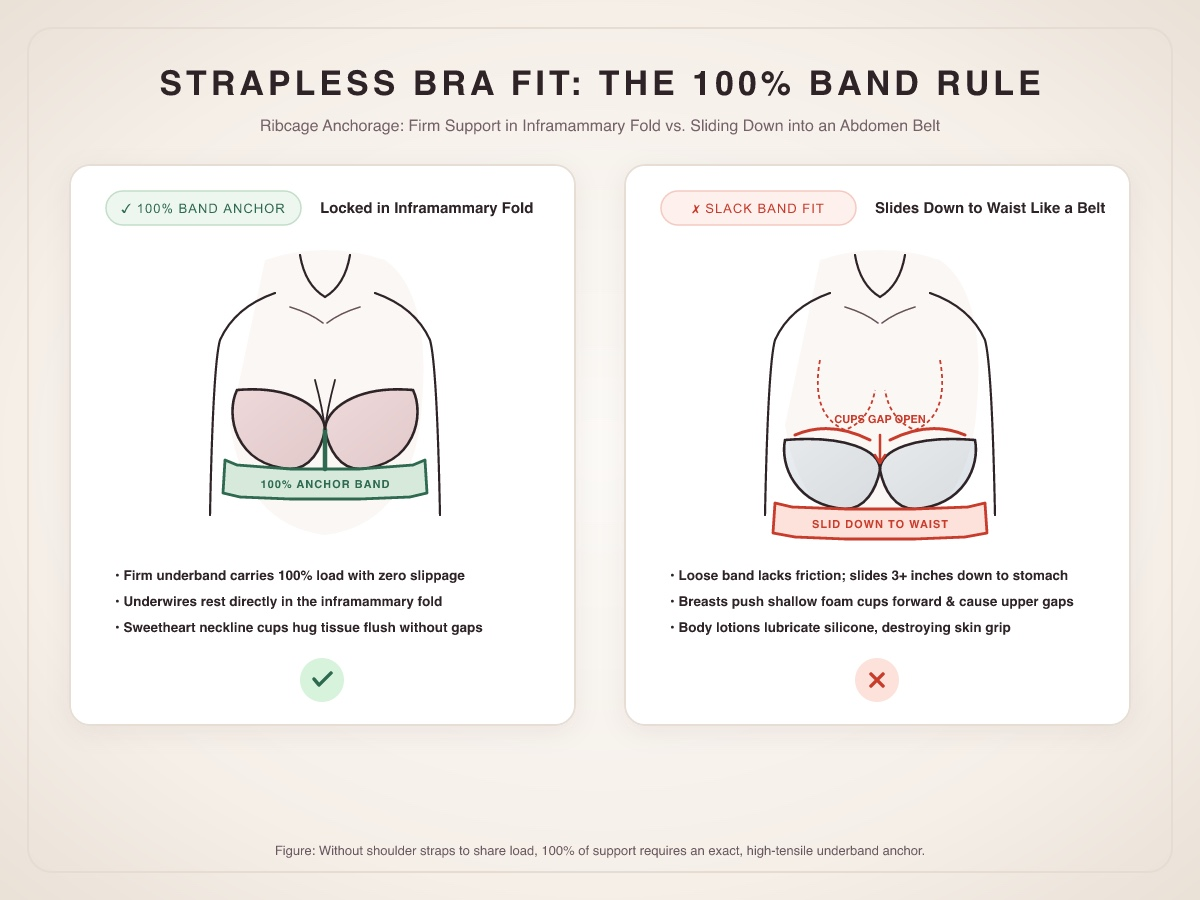
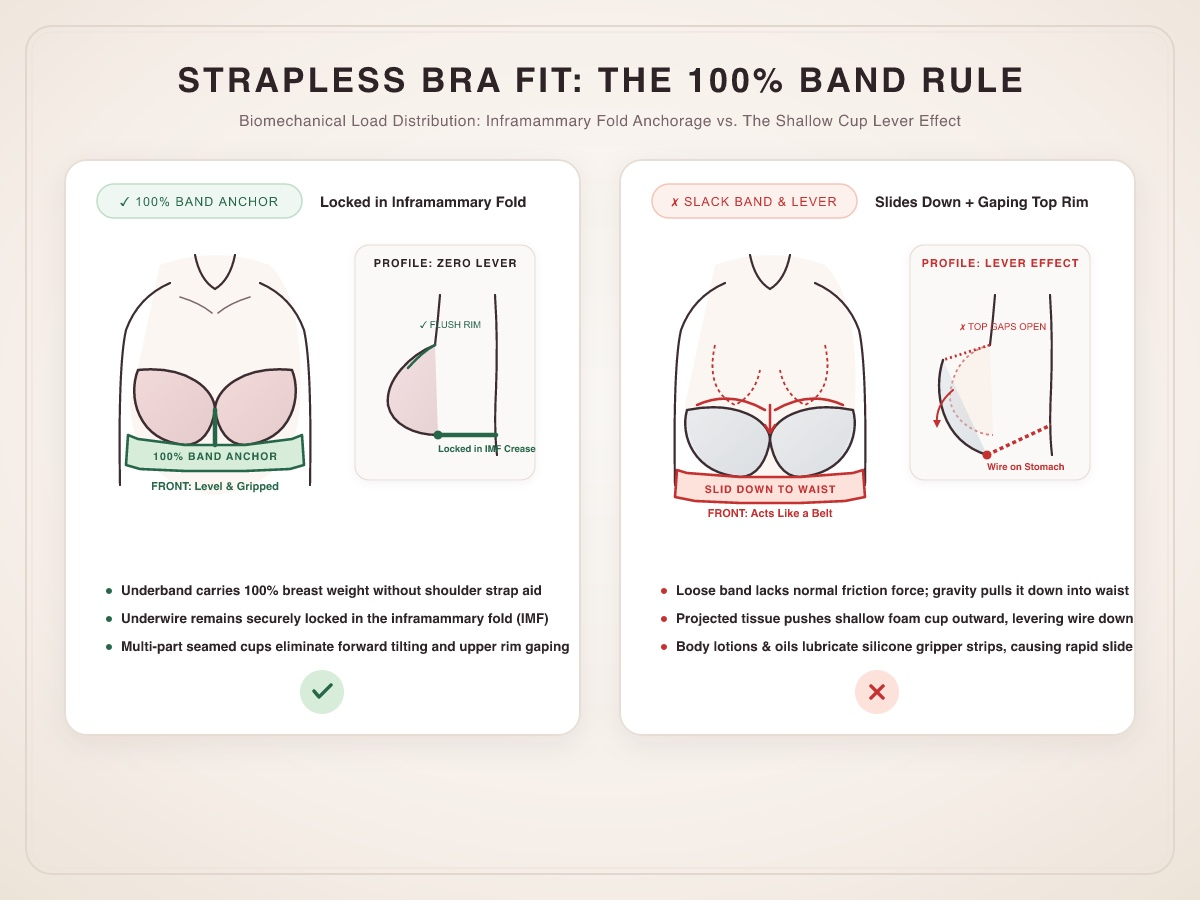
feat(editorial): elevate strapless fit guide with dual-perspective graphic and rich UI callouts

diff --git a/src/styles/global.css b/src/styles/global.css
@@ -1,5 +1,5 @@
 @import "tailwindcss";
-@source "../**/*.{astro,html,js,ts,jsx,tsx}";
+@source "../**/*.{astro,html,js,ts,jsx,tsx,md}";
 
 @custom-variant dark (&:where(.dark, .dark *));
 

diff --git a/src/content/blog/why-does-my-strapless-bra-keep-slipping-down.md b/src/content/blog/why-does-my-strapless-bra-keep-slipping-down.md
@@ -19,8 +19,6 @@ faqs:
     answer: "Yes. Fuller-bust strapless bras require specific architectural elements: wide 4-to-5 hook powernet bands, vertical side boning to prevent rolling, multi-part seamed cups for forward projection, and medical-grade silicone grip tape along the band perimeter."
 ---
 
-# Why Does My Strapless Bra Keep Slipping Down? (The 100% Band Rule)
-
 Few wardrobe malfunctions are as universally dreaded, physically uncomfortable, or socially awkward as a slipping strapless bra. You put it on for a wedding, a formal dinner, or a summer evening out, and within forty-five minutes, the inevitable migration begins. You find yourself discreetly tugging it upward through your armpits, crossing your arms defensively across your chest to pin it in place, or retreating to the restroom every hour just to yank the band back onto your ribcage. By the end of the night, the bra has surrendered entirely to gravity, sliding three inches down your torso to sit around your upper abdomen like an awkward, suffocating belt.
 
 If this scenario sounds painfully familiar, you are not alone. Searches for **"strapless bra that stays up"** have surged by over **900% year-over-year**, reflecting a massive collective frustration with intimate apparel engineering. 
@@ -39,12 +37,56 @@ To understand why a strapless bra fails, we must first look at how standard ling
 
 Because shoulder straps provide that crucial 20% upward tension, they act as an invisible safety net. If your everyday bra band is slightly too loose (for instance, wearing a 36 band on a 32-inch ribcage), the shoulder straps compensate by pulling harder. You might end up with shoulder grooves or neck ache, but the bra generally stays upright on your chest.
 
-```
-STANDARD BRA:               STRAPLESS BRA:
-[ Straps: 15-20% Support ]   [ Straps: 0% (ELIMINATED) ]
-            ▼                            ▼
-[ Underband: 80-85% Load ]   [ Underband: MUST CARRY 100% OF LOAD ]
-```
+<div class="my-8 grid sm:grid-cols-2 gap-4 not-prose">
+  <div class="bg-surface border border-hairline rounded-2xl p-5 shadow-xs">
+    <div class="flex items-center justify-between mb-3">
+      <span class="text-xs font-bold uppercase tracking-wider text-mute">Standard Everyday Bra</span>
+      <span class="text-xs font-bold px-2 py-0.5 rounded-full bg-slate-100 dark:bg-slate-800 text-slate-700 dark:text-slate-300">80/20 Mechanical Balance</span>
+    </div>
+    <div class="space-y-3">
+      <div class="p-3 rounded-xl bg-canvas-soft border border-hairline/60">
+        <div class="text-xs text-mute mb-1 font-medium">Vertical Shoulder Straps</div>
+        <div class="font-bold text-ink text-sm flex items-center justify-between">
+          <span>Stabilizes Top of Cups</span>
+          <span class="text-primary font-bold">15% – 20% Load</span>
+        </div>
+      </div>
+      <div class="p-3 rounded-xl bg-canvas-soft border border-hairline/60">
+        <div class="text-xs text-mute mb-1 font-medium">Horizontal Underband</div>
+        <div class="font-bold text-ink text-sm flex items-center justify-between">
+          <span>Anchors to Ribcage</span>
+          <span class="text-primary font-bold">80% – 85% Load</span>
+        </div>
+      </div>
+    </div>
+    <p class="text-xs text-mute mt-3 italic">Straps act as a hidden safety net, compensating for a loose band.</p>
+  </div>
+
+  <div class="bg-surface border-2 border-primary/30 rounded-2xl p-5 shadow-xs relative overflow-hidden">
+    <div class="absolute top-0 right-0 bg-primary text-white text-[10px] font-extrabold uppercase px-3 py-1 rounded-bl-lg tracking-wider">Zero Safety Net</div>
+    <div class="flex items-center justify-between mb-3">
+      <span class="text-xs font-bold uppercase tracking-wider text-primary">Strapless Bra</span>
+      <span class="text-xs font-bold px-2 py-0.5 rounded-full bg-primary/10 text-primary">100% Band Rule</span>
+    </div>
+    <div class="space-y-3">
+      <div class="p-3 rounded-xl bg-canvas-soft border border-hairline/60 opacity-60">
+        <div class="text-xs text-mute mb-1 font-medium">Shoulder Straps</div>
+        <div class="font-bold text-ink text-sm flex items-center justify-between">
+          <span class="line-through">Eliminated</span>
+          <span class="text-rose-600 font-bold">0% Support</span>
+        </div>
+      </div>
+      <div class="p-3 rounded-xl bg-green-50 dark:bg-green-950/30 border border-green-200 dark:border-green-800">
+        <div class="text-xs text-green-700 dark:text-green-300 mb-1 font-medium">Horizontal Underband</div>
+        <div class="font-bold text-green-900 dark:text-green-100 text-sm flex items-center justify-between">
+          <span>Dynamic Static Friction</span>
+          <span class="text-green-700 dark:text-green-300 font-extrabold">100% Full Load</span>
+        </div>
+      </div>
+    </div>
+    <p class="text-xs text-ink/80 mt-3 font-medium">Without straps, any band slack causes immediate gravitational slide.</p>
+  </div>
+</div>
 
 When you detach the shoulder straps, **the safety net disappears entirely**. 
 
@@ -87,15 +129,63 @@ If you currently wear bras fitted at standard department stores, your band is al
 
 When sizing down in the band for extra grip, you cannot simply reduce the number—you must simultaneously increase the cup letter by one step to preserve the exact same physical volume for your breast tissue. 
 
-| Everyday Size | Recommended Strapless Sister Size | Why It Works |
-| :---: | :---: | :--- |
-| **32C** | **30D** | Tightens ribcage circumference by 2 inches; maintains 390cc cup volume |
-| **34B** | **32C** | Eliminates back ride-up; provides firm friction against 31-32" ribs |
-| **34C** | **32D** | Locks the cradle under the inframammary fold; prevents sagging |
-| **34D** | **32DD** | Critical threshold for medium busts; shifts 100% weight to ribcage |
-| **36C** | **34D** | Eliminates 2 inches of excess elastic slack that causes sliding |
-| **36D** | **34DD (or 34E)** | Provides firm foundation for ~710cc breast mass without strap assistance |
-| **38DD** | **36E (36DDD)** | Stabilizes fuller busts; prevents band from flipping or rolling |
+<div class="my-8 overflow-hidden rounded-2xl border border-hairline shadow-xs not-prose bg-surface">
+  <div class="p-4 bg-canvas-soft border-b border-hairline flex flex-col sm:flex-row sm:items-center justify-between gap-2">
+    <div>
+      <h4 class="font-bold text-ink text-sm">The Sister-Size Down Reference Guide</h4>
+      <p class="text-xs text-mute">Maintain exact cup volume (in cc) while dropping band circumference</p>
+    </div>
+    <span class="text-xs font-bold px-2.5 py-1 rounded-full bg-primary/10 text-primary self-start sm:self-auto">Volume Preserved</span>
+  </div>
+  <div class="overflow-x-auto">
+    <table class="w-full text-left text-sm">
+      <thead class="bg-canvas-soft/50 text-xs uppercase tracking-wider text-mute border-b border-hairline">
+        <tr>
+          <th class="py-3 px-4 font-bold text-ink">Everyday Size</th>
+          <th class="py-3 px-4 font-bold text-primary">Target Strapless Sister Size</th>
+          <th class="py-3 px-4 font-bold text-ink">Biomechanical Fit Reason</th>
+        </tr>
+      </thead>
+      <tbody class="divide-y divide-hairline text-body text-xs sm:text-sm">
+        <tr class="hover:bg-canvas-soft/30 transition-colors">
+          <td class="py-3 px-4 font-bold text-ink">32C</td>
+          <td class="py-3 px-4 font-bold text-primary">30D</td>
+          <td class="py-3 px-4">Tightens ribcage circumference by 2 inches; preserves 390cc cup volume.</td>
+        </tr>
+        <tr class="hover:bg-canvas-soft/30 transition-colors">
+          <td class="py-3 px-4 font-bold text-ink">34B</td>
+          <td class="py-3 px-4 font-bold text-primary">32C</td>
+          <td class="py-3 px-4">Eliminates back ride-up; provides firm friction against 31-32" ribs.</td>
+        </tr>
+        <tr class="hover:bg-canvas-soft/30 transition-colors">
+          <td class="py-3 px-4 font-bold text-ink">34C</td>
+          <td class="py-3 px-4 font-bold text-primary">32D</td>
+          <td class="py-3 px-4">Locks the cradle under the inframammary fold; prevents downward sagging.</td>
+        </tr>
+        <tr class="hover:bg-canvas-soft/30 transition-colors">
+          <td class="py-3 px-4 font-bold text-ink">34D</td>
+          <td class="py-3 px-4 font-bold text-primary">32DD</td>
+          <td class="py-3 px-4">Critical threshold for medium busts; shifts 100% load directly to ribcage.</td>
+        </tr>
+        <tr class="hover:bg-canvas-soft/30 transition-colors">
+          <td class="py-3 px-4 font-bold text-ink">36C</td>
+          <td class="py-3 px-4 font-bold text-primary">34D</td>
+          <td class="py-3 px-4">Eliminates 2 inches of excess elastic slack that causes sliding.</td>
+        </tr>
+        <tr class="hover:bg-canvas-soft/30 transition-colors">
+          <td class="py-3 px-4 font-bold text-ink">36D</td>
+          <td class="py-3 px-4 font-bold text-primary">34DD (or 34E)</td>
+          <td class="py-3 px-4">Provides firm foundation for ~710cc breast mass without strap assistance.</td>
+        </tr>
+        <tr class="hover:bg-canvas-soft/30 transition-colors">
+          <td class="py-3 px-4 font-bold text-ink">38DD</td>
+          <td class="py-3 px-4 font-bold text-primary">36E (36DDD)</td>
+          <td class="py-3 px-4">Stabilizes fuller busts; prevents band from flipping or rolling under pressure.</td>
+        </tr>
+      </tbody>
+    </table>
+  </div>
+</div>
 
 *Tip: Need to find your exact equivalent? Check our comprehensive [Sister Size Calculator](/sister-size-calculator/) to maintain precise cup volume across any band step-down.*
 
@@ -107,13 +197,55 @@ When trying on a strapless bra, many women immediately complain: *"This smaller 
 
 Before assuming the band is too small, you must perform a crucial fitting diagnostic: the **Upside-Down and Backwards Test**.
 
-```
-STEP 1: Unhook the strapless bra.
-STEP 2: Turn it upside down so the cups point toward the floor.
-STEP 3: Place the clasp at your sternum and fasten it on the loosest hook.
-STEP 4: Spin the band so the cups hang down your back like a mini-cape.
-STEP 5: Assess how the band feels around your ribcage.
-```
+<div class="my-8 bg-surface border border-hairline rounded-2xl p-6 shadow-xs not-prose">
+  <div class="flex items-center gap-3 mb-5 pb-4 border-b border-hairline">
+    <div class="w-10 h-10 rounded-xl bg-primary/10 text-primary flex items-center justify-center font-bold shrink-0">
+      <svg xmlns="http://www.w3.org/2000/svg" width="20" height="20" viewBox="0 0 24 24" fill="none" stroke="currentColor" stroke-width="2" stroke-linecap="round" stroke-linejoin="round"><path d="m9 18 6-6-6-6"/></svg>
+    </div>
+    <div>
+      <h3 class="font-bold text-ink text-lg leading-tight">The "Upside-Down & Backwards" Diagnostic Protocol</h3>
+      <p class="text-xs text-mute">Isolate band tension completely from cup volume interference in 5 steps</p>
+    </div>
+  </div>
+
+  <div class="grid gap-3 sm:grid-cols-5">
+    <div class="p-4 rounded-xl bg-canvas-soft border border-hairline/80 flex flex-col justify-between">
+      <div>
+        <span class="w-6 h-6 rounded-full bg-primary text-white text-xs font-bold inline-flex items-center justify-center mb-2">1</span>
+        <h4 class="font-bold text-ink text-xs uppercase tracking-wider mb-1">Unhook</h4>
+        <p class="text-xs text-body leading-relaxed">Open the band hooks completely before putting on.</p>
+      </div>
+    </div>
+    <div class="p-4 rounded-xl bg-canvas-soft border border-hairline/80 flex flex-col justify-between">
+      <div>
+        <span class="w-6 h-6 rounded-full bg-primary text-white text-xs font-bold inline-flex items-center justify-center mb-2">2</span>
+        <h4 class="font-bold text-ink text-xs uppercase tracking-wider mb-1">Invert</h4>
+        <p class="text-xs text-body leading-relaxed">Turn upside down so cups point toward the floor.</p>
+      </div>
+    </div>
+    <div class="p-4 rounded-xl bg-canvas-soft border border-hairline/80 flex flex-col justify-between">
+      <div>
+        <span class="w-6 h-6 rounded-full bg-primary text-white text-xs font-bold inline-flex items-center justify-center mb-2">3</span>
+        <h4 class="font-bold text-ink text-xs uppercase tracking-wider mb-1">Fasten Front</h4>
+        <p class="text-xs text-body leading-relaxed">Fasten at sternum on the loosest outer hook.</p>
+      </div>
+    </div>
+    <div class="p-4 rounded-xl bg-canvas-soft border border-hairline/80 flex flex-col justify-between">
+      <div>
+        <span class="w-6 h-6 rounded-full bg-primary text-white text-xs font-bold inline-flex items-center justify-center mb-2">4</span>
+        <h4 class="font-bold text-ink text-xs uppercase tracking-wider mb-1">Spin to Back</h4>
+        <p class="text-xs text-body leading-relaxed">Cups hang down your back like an inverted cape.</p>
+      </div>
+    </div>
+    <div class="p-4 rounded-xl bg-canvas-soft border border-hairline/80 flex flex-col justify-between">
+      <div>
+        <span class="w-6 h-6 rounded-full bg-primary text-white text-xs font-bold inline-flex items-center justify-center mb-2">5</span>
+        <h4 class="font-bold text-ink text-xs uppercase tracking-wider mb-1">Assess Grip</h4>
+        <p class="text-xs text-body leading-relaxed">Band should grip firmly without slipping or spinning.</p>
+      </div>
+    </div>
+  </div>
+</div>
 
 ### Why This Test Is Revolutionary
 When you try on a bra normally, two things happen simultaneously: the band wraps your ribs, and the cups enclose your breasts. **If the cups are too small or too shallow, your breast tissue cannot fit inside them.** The cups are pushed away from your chest wall, which pulls the band tight like a bowstring. 
@@ -133,16 +265,33 @@ A massive point of confusion for women searching for a **"strapless bra that sta
 
 This paradox is caused by **The Shallow Cup Trap**:
 
-```
-THE SHALLOW CUP TRAP:
-[ Natural Projected Breast Tissue ] ──► Pushes aggressively against flat, stiff foam
-                                            │
-                                            ▼
-[ Bra Tilted Forward & Downward ]   ◄── Bottom underwire slides down into stomach
-                                            │
-                                            ▼
-[ Empty Top Gap Appears ]           ◄── Top rim pulls away from chest wall
-```
+<div class="my-8 bg-rose-50/60 dark:bg-rose-950/20 border border-rose-200 dark:border-rose-900 rounded-2xl p-6 not-prose">
+  <div class="flex items-start gap-4">
+    <div class="w-10 h-10 rounded-xl bg-rose-100 dark:bg-rose-900/50 text-rose-700 dark:text-rose-300 flex items-center justify-center shrink-0">
+      <svg xmlns="http://www.w3.org/2000/svg" width="22" height="22" viewBox="0 0 24 24" fill="none" stroke="currentColor" stroke-width="2" stroke-linecap="round" stroke-linejoin="round"><circle cx="12" cy="12" r="10"/><line x1="12" y1="8" x2="12" y2="12"/><line x1="12" y1="16" x2="12.01" y2="16"/></svg>
+    </div>
+    <div class="space-y-3 flex-1">
+      <h3 class="font-bold text-ink text-lg leading-tight">Biomechanical Breakdown: The Shallow Cup Lever Effect</h3>
+      <p class="text-xs sm:text-sm text-body leading-relaxed">
+        Why a strapless bra can feel both <strong>too small</strong> (sliding down) and <strong>too big</strong> (gaping open at the top rim) simultaneously:
+      </p>
+      <div class="grid sm:grid-cols-3 gap-3 pt-2">
+        <div class="bg-surface p-3.5 rounded-xl border border-rose-200/60 dark:border-rose-800/40 shadow-2xs">
+          <div class="text-[11px] font-bold uppercase tracking-wider text-rose-700 dark:text-rose-400 mb-1">Stage 1: Shape Clash</div>
+          <p class="text-xs text-body">Natural projected tissue hits rigid, shallow foam and cannot settle into the wire crease.</p>
+        </div>
+        <div class="bg-surface p-3.5 rounded-xl border border-rose-200/60 dark:border-rose-800/40 shadow-2xs">
+          <div class="text-[11px] font-bold uppercase tracking-wider text-rose-700 dark:text-rose-400 mb-1">Stage 2: Downward Lever</div>
+          <p class="text-xs text-body">Apex acts as a fulcrum. Outward breast pressure levers the underwire 2–3 inches down into your stomach.</p>
+        </div>
+        <div class="bg-surface p-3.5 rounded-xl border border-rose-200/60 dark:border-rose-800/40 shadow-2xs">
+          <div class="text-[11px] font-bold uppercase tracking-wider text-rose-700 dark:text-rose-400 mb-1">Stage 3: Upper Rim Gaping</div>
+          <p class="text-xs text-body">Because the bra tilts forward on the torso, the top rim pulls away from the pectorals, creating hollow gaps.</p>
+        </div>
+      </div>
+    </div>
+  </div>
+</div>
 
 1. **Mass-Market Foam Cups Are Flat:** Approximately 90% of commercial strapless bras are constructed with single-piece, heat-moulded stiff foam. These cups are wide and shallow.
 2. **Projected Breast Anatomy:** Natural breasts—particularly pendulous, post-nursing, or [sagging breasts](/blog/bra-size-calculator-for-sagging-breasts/)—require depth at the base of the cup near the underwire.
@@ -158,6 +307,16 @@ THE SHALLOW CUP TRAP:
 Nearly all modern strapless bras feature thin strips or waves of medical-grade silicone (often called "gripper tape") lined along the top edge of the cups and inside the bottom underband. 
 
 In theory, silicone creates high coefficient friction against dry epidermis, mechanically sticking the garment to your torso. In practice, improper skin preparation is one of the leading causes of strapless failure:
+
+<div class="my-6 p-5 rounded-2xl bg-amber-50/70 dark:bg-amber-950/30 border border-amber-200 dark:border-amber-800/60 not-prose flex items-start gap-3.5">
+  <span class="text-2xl leading-none">⚠</span>
+  <div>
+    <h4 class="font-bold text-amber-950 dark:text-amber-200 text-sm mb-1">The 4-Hour Moisturizer Rule</h4>
+    <p class="text-xs sm:text-sm text-amber-900/90 dark:text-amber-300/90 leading-relaxed">
+      Never apply body lotions, dry body oils, bronzers, or shower moisturizers within 4 hours of wearing a strapless bra. Lipids bond instantly to silicone gripper strips, creating an oily lubricant that eliminates 95% of normal skin friction. Cleanse ribs with rubbing alcohol or micellar water before dressing.
+    </p>
+  </div>
+</div>
 
 ### 1. The Moisturizer Barrier
 If you apply body lotion, shimmering body oil, rich shower moisturizers, or perfume to your decolletage or ribcage within four hours of wearing a strapless bra, **you destroy the silicone's grip**. The oils coat the silicone molecules, transforming the non-slip barrier into a slick, lubricated slip-and-slide. The bra will slide down within minutes of walking.
@@ -176,17 +335,50 @@ When silicone is pressed tightly against the skin during hot summer events or ac
 
 If you have a fuller bust (D, DD, E, F, G, or H+ cups), you cannot rely on an ordinary fashion strapless bra with a 2-hook clasp. Supporting heavier breast tissue without shoulder straps requires serious garment engineering:
 
-```
-┌────────────────────────────────────────────────────────────────────────┐
-│             ANATOMY OF A HIGH-PERFORMANCE STRAPLESS BRA                │
-├────────────────────────────────────────────────────────────────────────┤
-│ 1. TALL CENTER GORE:        Tacks flat against sternum to isolate mass │
-│ 2. REINFORCED SIDE BONING:  Vertical stays prevent band from rolling   │
-│ 3. WIDE POWERNET WINGS:     4 to 5 hooks distribute thoracic pressure  │
-│ 4. SWEETHEART BALCONETTE:   Curved cup hugs upper tissue without gap   │
-│ 5. ARCHED CENTER UNDERBAND: Relieves pressure on stomach & diaphragm   │
-└────────────────────────────────────────────────────────────────────────┘
-```
+<div class="my-8 grid sm:grid-cols-2 gap-3.5 not-prose">
+  <div class="bg-surface border border-hairline rounded-2xl p-4 shadow-2xs flex items-start gap-3">
+    <span class="w-7 h-7 rounded-lg bg-primary/10 text-primary flex items-center justify-center font-bold text-xs shrink-0">1</span>
+    <div>
+      <h4 class="font-bold text-ink text-sm">Tall Center Gore</h4>
+      <p class="text-xs text-mute mt-0.5">Tacks firmly against the sternum, isolating each breast and preventing cleavage collapse.</p>
+    </div>
+  </div>
+  <div class="bg-surface border border-hairline rounded-2xl p-4 shadow-2xs flex items-start gap-3">
+    <span class="w-7 h-7 rounded-lg bg-primary/10 text-primary flex items-center justify-center font-bold text-xs shrink-0">2</span>
+    <div>
+      <h4 class="font-bold text-ink text-sm">Reinforced Side Boning</h4>
+      <p class="text-xs text-mute mt-0.5">Flexible vertical stays beneath armpits that stop wide bands from folding, creasing, or rolling down.</p>
+    </div>
+  </div>
+  <div class="bg-surface border border-hairline rounded-2xl p-4 shadow-2xs flex items-start gap-3">
+    <span class="w-7 h-7 rounded-lg bg-primary/10 text-primary flex items-center justify-center font-bold text-xs shrink-0">3</span>
+    <div>
+      <h4 class="font-bold text-ink text-sm">Wide 4-to-5 Hook Band</h4>
+      <p class="text-xs text-mute mt-0.5">Triples ribcage surface contact, dispersing pressure while generating high static friction.</p>
+    </div>
+  </div>
+  <div class="bg-surface border border-hairline rounded-2xl p-4 shadow-2xs flex items-start gap-3">
+    <span class="w-7 h-7 rounded-lg bg-primary/10 text-primary flex items-center justify-center font-bold text-xs shrink-0">4</span>
+    <div>
+      <h4 class="font-bold text-ink text-sm">Sweetheart Balconette Curve</h4>
+      <p class="text-xs text-mute mt-0.5">Anatomically contoured upper edge that hugs upper tissue flush rather than standing stiffly upright.</p>
+    </div>
+  </div>
+  <div class="bg-surface border border-hairline rounded-2xl p-4 shadow-2xs flex items-start gap-3">
+    <span class="w-7 h-7 rounded-lg bg-primary/10 text-primary flex items-center justify-center font-bold text-xs shrink-0">5</span>
+    <div>
+      <h4 class="font-bold text-ink text-sm">Arched Center Underband</h4>
+      <p class="text-xs text-mute mt-0.5">Underwire center curves upward under the breastbone to relieve stomach and diaphragm pinch when seated.</p>
+    </div>
+  </div>
+  <div class="bg-surface border border-hairline rounded-2xl p-4 shadow-2xs flex items-start gap-3">
+    <span class="w-7 h-7 rounded-lg bg-primary/10 text-primary flex items-center justify-center font-bold text-xs shrink-0">6</span>
+    <div>
+      <h4 class="font-bold text-ink text-sm">Medical-Grade Silicone Perimeter</h4>
+      <p class="text-xs text-mute mt-0.5">Wave-patterned non-slip silicone lines the upper cup and lower band to maintain friction on dry skin.</p>
+    </div>
+  </div>
+</div>
 
 1. **Wide 4-to-5 Hook Band:** A standard bra has a 2-hook closure (approx. 1.25 inches tall). A high-performance strapless bra for larger busts must feature a band at least 3 to 4 inches tall with 4 or 5 columns of hooks. A wider band distributes the normal force across a larger surface area of your ribcage, dramatically increasing friction while reducing painful pressure points.
 2. **Flexible Vertical Side Boning:** To prevent the wide band from folding in half, rolling up, or bunching into your skin folds when you sit down, high-grade strapless bras incorporate flexible vertical stays (boning) beneath each armpit.
